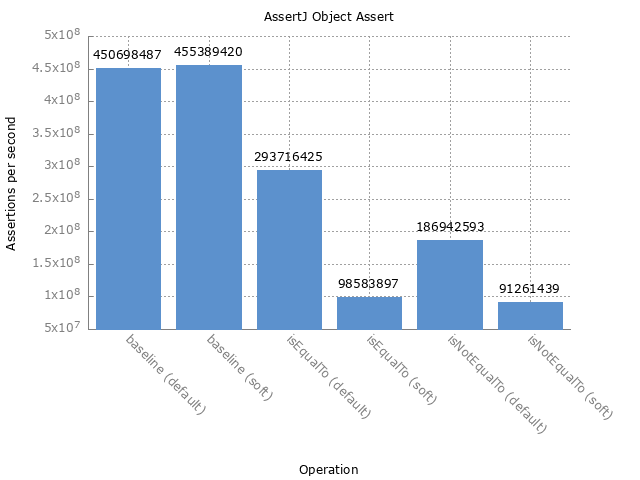
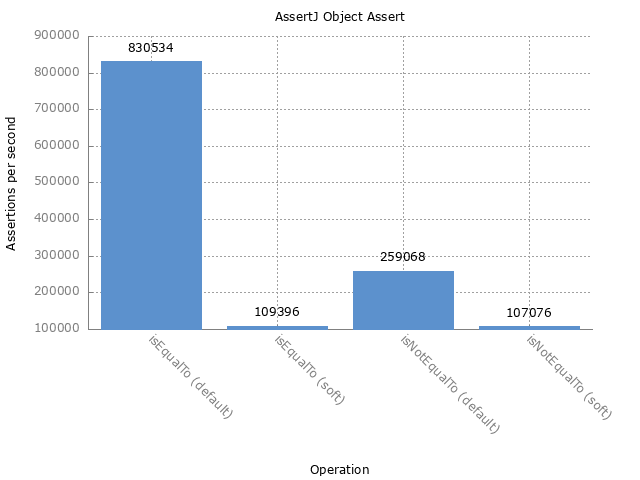
Do not use a return value for the assert benchmarks and use milliseconds for the output
Add the results from the new setup

diff --git a/src/main/java/org/assertj/benchmark/ObjectAssertBenchmark.java b/src/main/java/org/assertj/benchmark/ObjectAssertBenchmark.java
@@ -21,11 +21,15 @@ import org.assertj.core.api.SoftAssertions;
 import org.openjdk.jmh.annotations.Benchmark;
 import org.openjdk.jmh.annotations.Level;
 import org.openjdk.jmh.annotations.Measurement;
+import org.openjdk.jmh.annotations.OutputTimeUnit;
 import org.openjdk.jmh.annotations.Param;
 import org.openjdk.jmh.annotations.Scope;
 import org.openjdk.jmh.annotations.Setup;
 import org.openjdk.jmh.annotations.State;
 import org.openjdk.jmh.annotations.Warmup;
+import org.openjdk.jmh.infra.Blackhole;
+import org.openjdk.jmh.profile.JavaFlightRecorderProfiler;
+import org.openjdk.jmh.profile.StackProfiler;
 import org.openjdk.jmh.results.Result;
 import org.openjdk.jmh.results.RunResult;
 import org.openjdk.jmh.results.format.ResultFormatType;
@@ -38,8 +42,9 @@ import org.openjdk.jmh.runner.options.TimeValue;
  * @author Filip Hrisafov
  */
 @State(Scope.Benchmark)
-@Warmup(iterations = 5, time = 5, timeUnit = TimeUnit.SECONDS)
-@Measurement(iterations = 5, time = 5, timeUnit = TimeUnit.SECONDS)
+@Warmup(iterations = 5, time = 1, timeUnit = TimeUnit.SECONDS)
+@Measurement(iterations = 5, time = 1, timeUnit = TimeUnit.SECONDS)
+@OutputTimeUnit(TimeUnit.MILLISECONDS)
 public class ObjectAssertBenchmark {
 
     @Param({"default", "soft"})
@@ -66,18 +71,13 @@ public class ObjectAssertBenchmark {
     }
 
     @Benchmark
-    public AbstractLongAssert<?> baseline() {
-        return longAssert;
+    public void isEqualTo() {
+        longAssert.isEqualTo(expectedEqualTo);
     }
 
     @Benchmark
-    public AbstractLongAssert<?> isEqualTo() {
-        return longAssert.isEqualTo(expectedEqualTo);
-    }
-
-    @Benchmark
-    public AbstractLongAssert<?> isNotEqualTo() {
-        return longAssert.isNotEqualTo(expectedNotEqualTo);
+    public void isNotEqualTo() {
+        longAssert.isNotEqualTo(expectedNotEqualTo);
     }
 
     public static void main(String... args) throws Exception {
@@ -86,9 +86,11 @@ public class ObjectAssertBenchmark {
                 .warmupIterations(5)
                 .measurementIterations(5)
                 .measurementTime(TimeValue.seconds(1))
+                //.addProfiler(JavaFlightRecorderProfiler.class, "dir=./jfr")
+                //.addProfiler(StackProfiler.class, "lines=10")
                 .jvmArgs("-server")
                 .forks(1)
-                .resultFormat(ResultFormatType.TEXT)
+                .resultFormat(ResultFormatType.CSV)
                 .build();
 
         Collection<RunResult> results = new Runner(opts).run();
